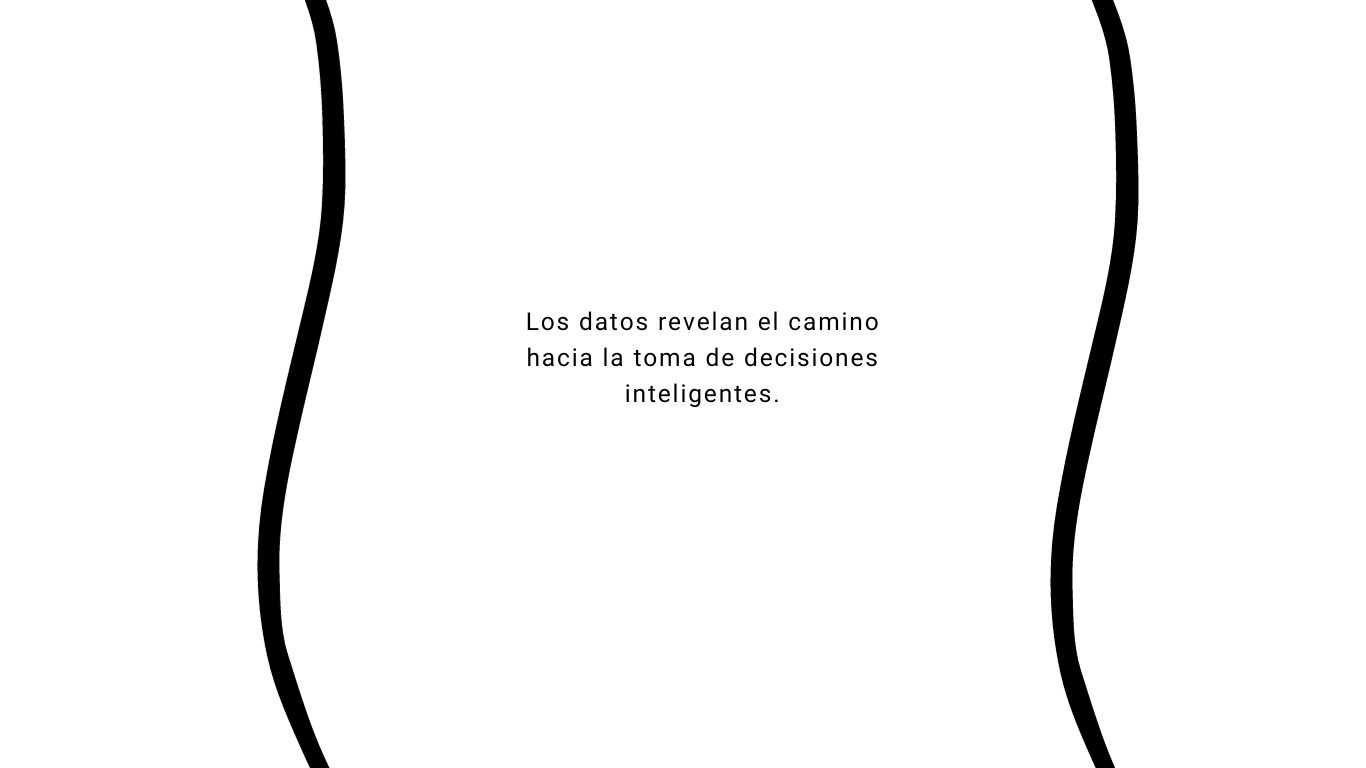
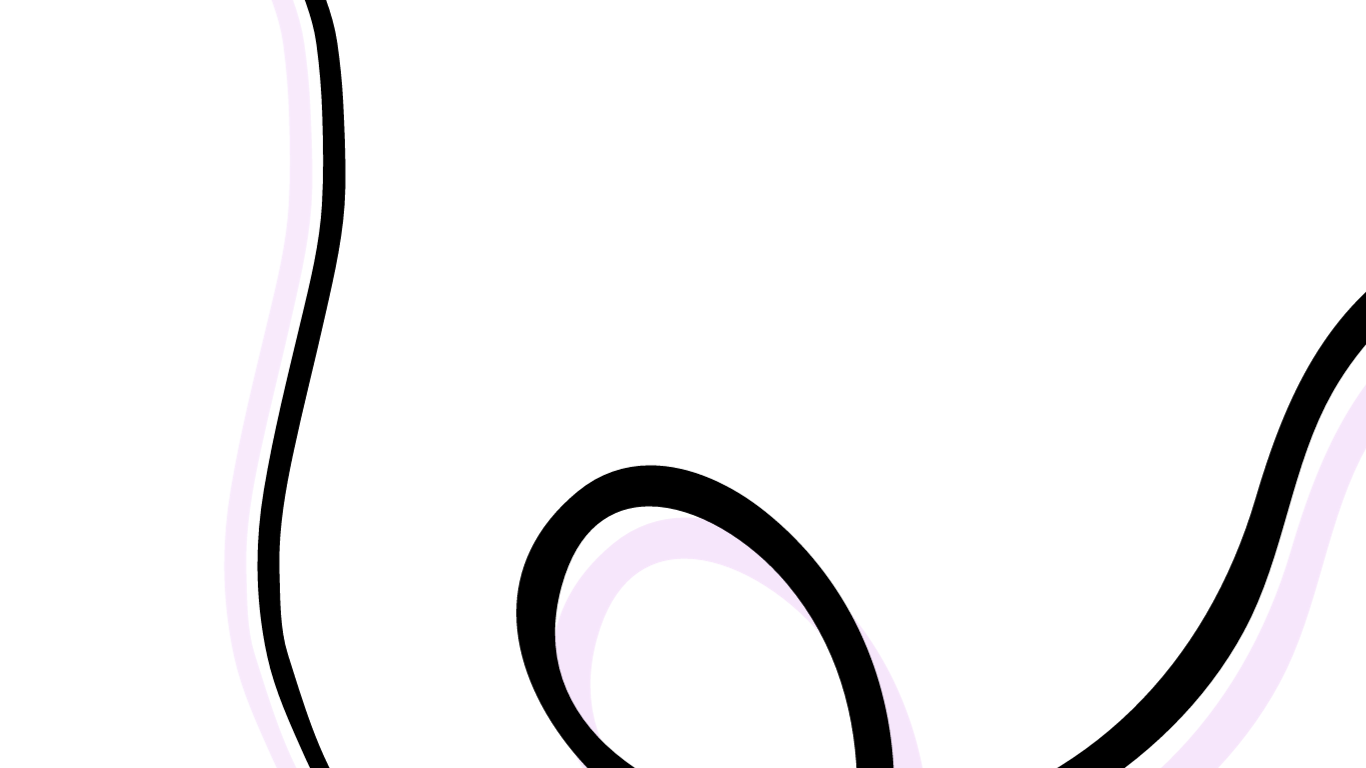
Mi quinto commit

Changed region(s): [[0.7687, 0.0, 1.0, 1.0], [0.369, 0.5938, 0.6764, 1.0], [0.369, 0.4062, 0.6457, 0.5312]]

diff --git a/views/estudianteseeuu.html b/views/estudianteseeuu.html
@@ -11,45 +11,48 @@
    <style>  
    </style>
   </head>  
-  <body>
-    <div class="navbar-fixed">
-    <nav>
-      <div class="nav-wrapper">
-        <a href="../index.html" class="brand-logo">Ariana Spenza</a>
-        <a href="#" data-target="mobile-demo" class="sidenav-trigger"><i class="material-icons">menu</i></a>
-        <ul class="right hide-on-med-and-down">
-                   <li><a class="item_nav" href="../index.html">Inicio</a></li>                 
-      </div>
-    </nav>  
-   </div>
-    <ul class="sidenav" id="mobile-demo">
-                   <li><a class="item_nav white-text sidenav-close" href="../index.html">Inicio</a></li>                    
-    </ul>   
+  <body>   
+      <div class="navbar-fixed">
+        <nav>
+          <div class="nav-wrapper">                 
+            <ul class="left">                       
+                       <li><a href="/index.html" class="brand-logo left">Inicio</a> </li> 
+            </ul>
+          </div>
+        </nav>  
+       </div>    
     <main>              
-  <div class="row container">
-    <h3>Análisis sobre la Salud Mental de estudiantes universitarios.</h3>
-    <i class="large material-icons" id="rocket">
-      rocket_launch
-    </i>
-    <div class="col s12 m12 l12  purple lighten-4 hoverable">
-      <blockquote>
-        <b>Herramientas: </b>SQL, DB Browser, Python, Jupyter Notebook, Jupyter Lab.
-      </blockquote>
-    </div>
-    <p>En este proyecto, me sumergí en el análisis de un conjunto de datos descargado desde Kaggle que proporcionaba información detallada sobre estudiantes universitarios en los Estados Unidos.</p>
-    <p> La tabla comprendía datos sobre la presencia de ansiedad, depresión y ataques de pánico en los estudiantes, así como información sobre si recibían tratamiento especializado. Además, incluía detalles sobre el nivel del curso, la especialización, la edad y el género de los estudiantes.</p>
+      <div class="row container">
+        <h3>Análisis sobre la Salud Mental de estudiantes universitarios.</h3>
+        <i class="large material-icons" id="rocket">
+          rocket_launch
+        </i>
+        <div class="col s12 m12 l12 purple lighten-4 hoverable">
+          <blockquote>
+            <b>Herramientas: </b> SQL, DB browser, Python, Jupyter Notebook, Jupyter Lab.
+          </blockquote>
+        </div>          
     <div class="col s12 m12 l12">      
+      <p>En este proyecto, me sumergí en el análisis de un conjunto de datos descargado desde 
+        Kaggle que proporcionaba información detallada sobre estudiantes universitarios en los Estados Unidos.</p>
+          <p> La tabla comprendía datos sobre la presencia de ansiedad, depresión y ataques de pánico en 
+            los estudiantes, así como información sobre si recibían tratamiento especializado. Además, incluía detalles 
+            sobre el nivel del curso, la especialización, la edad y el género de los estudiantes.</p>
       <ol>
-      <li>Comencé por descargar el archivo CSV desde Kaggle, que contenía toda la información necesaria. Luego, utilicé Python en un entorno Jupyter Notebook para abrir el archivo CSV y cargar los datos en una base de datos SQLite. Esto me permitió realizar consultas SQL en los datos para obtener información relevante.
-      </li><br><img src="/assets/img/portafolio/estudiantes_eeuu/jupyternot.png" class="responsive-img materialboxed"><br><img src="/assets/img/portafolio/estudiantes_eeuu/tabla_sql.png" class="responsive-img materialboxed"> <br>
-      <li>Análisis con SQL: calculé la cantidad de estudiantes que tienen depresión, ansiedad y ataques de pánico.</li><br><img src="/assets/img/portafolio/estudiantes_eeuu/3.png" class="responsive-img materialboxed"><br>
+      <li>Comencé por descargar el archivo CSV desde Kaggle, que contenía toda la información necesaria. 
+        Luego, utilicé Python en un entorno Jupyter Notebook para abrir el archivo CSV y cargar los datos en una 
+        base de datos SQLite. Esto me permitió realizar consultas SQL en los datos para obtener información relevante.</li>
+      <br><img src="/assets/img/portafolio/estudiantes_eeuu/jupyternot.png" class="responsive-img materialboxed"><br>
+      <img src="/assets/img/portafolio/estudiantes_eeuu/tabla_sql.png" class="responsive-img materialboxed"> <br>
+      <li>Análisis con SQL: calculé la cantidad de estudiantes que tienen depresión, ansiedad y ataques de pánico.</li>
+      <br><img src="/assets/img/portafolio/estudiantes_eeuu/3.png" class="responsive-img materialboxed"><br>
       <li>Análisis con SQL: el promedio de edad por género.</li><br><img src="/assets/img/portafolio/estudiantes_eeuu/5.png" class="responsive-img materialboxed"><br>
       <li>Análisis con SQL: calculé el promedio de CGPA (Grade Point Average) por género.</li><br><img src="/assets/img/portafolio/estudiantes_eeuu/6.png" class="responsive-img materialboxed"><br>
       <li>Análisis con SQL: la cantidad de estudiantes con un tratamiento especial, agrupado por año de estudio.</li><br><img src=/assets/img/portafolio/estudiantes_eeuu/7.png class="responsive-img materialboxed"><br>
       <li>Análisis con SQL: edad promedio de estudiantes con tratamientos especializados por género.</li><br><img src=/assets/img/portafolio/estudiantes_eeuu/8.png class="responsive-img materialboxed">  
     </ol>  
-  <p>Luego de realizar las consultas SQL y obtener los resultados, trasladé los datos a un entorno Jupyter Lab.</p><br><img src="/assets/img/portafolio/estudiantes_eeuu/lab1.png" class="responsive-img materialboxed"><br>
-  <ol>
+        <p>Luego de realizar las consultas SQL y obtener los resultados, trasladé los datos a un entorno Jupyter Lab.</p><br><img src="/assets/img/portafolio/estudiantes_eeuu/lab1.png" class="responsive-img materialboxed"><br>
+    <ol>
     <li>Utilicé bibliotecas de visualización de datos como Matplotlib para crear gráficos informativos y representativos. En primer lugar genere un gráfico para visualizar la cantidad de alumnos que tienen depresión.</li><br><img src="/assets/img/portafolio/estudiantes_eeuu/gf1.png" class="responsive-img materialboxed"><img src="/assets/img/portafolio/estudiantes_eeuu/gf2.png" class="responsive-img materialboxed">
     <br><li>Y luego, generé gráficos de barras para mostrar la cantidad de estudiantes con ansiedad, depresión y ataques de pánico.</li><br><img src="/assets/img/portafolio/estudiantes_eeuu/gf3.png" class="responsive-img materialboxed"><br><img src="/assets/img/portafolio/estudiantes_eeuu/gf5.png" class="responsive-img materialboxed"><br><img src="/assets/img/portafolio/estudiantes_eeuu/gf6.png" class="responsive-img materialboxed">
   </ol>
@@ -61,6 +64,7 @@
     <a href="#" id="#slice_id" class="btn-floating btn-large pink pulse">
     <i class="material-icons">keyboard_arrow_up</i></a>
   </div>
+</main>
     <footer class="page-footer">
     <div class="container  section scrollspy" id="contacto">
       <div class="row">
@@ -89,7 +93,7 @@
        
     <script src="../js/materialize.min.js"></script>
     <script src="../js/proyectos.js"></script>  
-  </main>
+  
   </body>  
   
   </html>

diff --git a/views/marketing.html b/views/marketing.html
@@ -13,25 +13,21 @@
   </head>  
   <body>
     <div class="navbar-fixed">
-    <nav>
-      <div class="nav-wrapper">
-        <a href="../index.html" class="brand-logo">Ariana Spenza</a>
-        <a href="#" data-target="mobile-demo" class="sidenav-trigger"><i class="material-icons">menu</i></a>
-        <ul class="right hide-on-med-and-down">
-                   <li><a class="item_nav" href="../index.html">Inicio</a></li>                 
-      </div>
-    </nav>  
-   </div>
-    <ul class="sidenav" id="mobile-demo">
-                   <li><a class="item_nav white-text sidenav-close" href="../index.html">Inicio</a></li>                    
-    </ul>   
+      <nav>
+        <div class="nav-wrapper">                 
+          <ul class="left">                       
+                     <li><a href="/index.html" class="brand-logo left">Inicio</a> </li> 
+          </ul>
+        </div>
+      </nav>  
+     </div>    
     <main>              
   <div class="row container">
     <h3>Guía de 10 pasos para evaluar el impacto de una campaña publicitaria.</h3>
     <i class="large material-icons" id="rocket">
       rocket_launch
     </i>
-    <div class="col s12 m12 l12  purple lighten-4">
+    <div class="col s12 m12 l12 purple lighten-4 hoverable">
       <blockquote>
         <b>Herramientas: </b>Meta Business Suite, Excel, Power Query y Power BI.
       </blockquote>
@@ -50,20 +46,21 @@
       <li>Establecimiento de relaciones: Establecí relaciones entre las tablas del informe y las tablas de fechas en el modelo de datos para permitir un análisis más completo.</li><br>
       <li>Visualización de datos: Finalmente, utilicé Power BI para crear gráficos y visualizaciones que revelaron el impacto de la campaña publicitaria de manera efectiva.</li><br><img src="/assets/img/portafolio/campaña/marketing_powerbi.png" class="responsive-img materialboxed">
     </ol>
-    <ul>
-      <li>Como se puede observar en el gráfico presentado, nuestra herramienta de análisis de datos permite filtrar la información por fecha, lo que brinda una visión clara de la efectividad de la campaña publicitaria a lo largo del tiempo.</li> 
-      <li>Destaca que la mayoría de las impresiones provienen del grupo demográfico de personas entre 25 y 34 años.</li>
-      <li>La campaña tuvo una duración relativamente corta, de tan solo 3 días, durante los cuales logramos obtener un total de 88 clics en el enlace de la página que deseábamos promocionar. Esto demuestra un interés genuino por parte de los usuarios.</li>  <br>
-      <li>Uno de los indicadores clave que evaluamos es la tasa de conversión, que representa la proporción de usuarios alcanzados por la publicidad que finalmente realizaron clic en el enlace. Este dato es fundamental para medir la eficacia de la campaña y, en este caso, muestra una tasa positiva.</li><br>
-      <li>Además, el gráfico nos proporciona la suma de clics en el enlace desglosados por género, donde destaca que la mayoría de los clics provienen de hombres, representando un 56.82% del total.</li>  
-      <li>Estos datos nos ofrecen una visión integral de la campaña y nos ayudan a tomar decisiones informadas para futuras estrategias de publicidad.</li>
-    </ul>
+    
+      <p>Como se puede observar en el gráfico presentado, nuestra herramienta de análisis de datos permite filtrar la información por fecha, lo que brinda una visión clara de la efectividad de la campaña publicitaria a lo largo del tiempo.</p> 
+      <p>Destaca que la mayoría de las impresiones provienen del grupo demográfico de personas entre 25 y 34 años.</p>
+      <p>La campaña tuvo una duración relativamente corta, de tan solo 3 días, durante los cuales logramos obtener un total de 88 clics en el enlace de la página que deseábamos promocionar. Esto demuestra un interés genuino por parte de los usuarios.</p> 
+      <p>Uno de los indicadores clave que evaluamos es la tasa de conversión, que representa la proporción de usuarios alcanzados por la publicidad que finalmente realizaron clic en el enlace. Este dato es fundamental para medir la eficacia de la campaña y, en este caso, muestra una tasa positiva.</p>
+      <p>Además, el gráfico nos proporciona la suma de clics en el enlace desglosados por género, donde destaca que la mayoría de los clics provienen de hombres, representando un 56.82% del total.</p>  
+      <p>Estos datos nos ofrecen una visión integral de la campaña y nos ayudan a tomar decisiones informadas para futuras estrategias de publicidad.</p>
+    
     </div>
   </div>
   <div class="fixed-action-btn">
     <a href="#" id="#slice_id" class="btn-floating btn-large pink pulse">
     <i class="material-icons">keyboard_arrow_up</i></a>
   </div>
+</main>
     <footer class="page-footer">
     <div class="container  section scrollspy" id="contacto">
       <div class="row">
@@ -92,7 +89,7 @@
        
     <script src="../js/materialize.min.js"></script>
     <script src="../js/proyectos.js"></script>  
-  </main>
+ 
   </body>  
   
   </html>

diff --git a/index.html b/index.html
@@ -87,16 +87,15 @@
           </li>
     </ul>    
   </div> 
-  <div id="index-banner" class="parallax-container">
+  <div id="index-banner" class="parallax-container  valign-wrapper">
     <div class="section no-pad-bot">
-      <div class="container">
-        <br><br>        
-        <div class="row center">          
-        </div>        
-        <br><br>
+      <div class="container">                      
+        <div class="row"> 
+          <h4 class="header col s12 light black-text">Los datos revelan el camino hacia<br> la toma de decisiones inteligentes.</h4>         
+        </div>                
       </div>
     </div>
-    <div class="parallax"><img src="./assets/img/fondo2.png" alt="Unsplashed background img 1"></div>
+    <div class="parallax"><img src="./assets/img/compunueva3.png" alt="Unsplashed background img 1"></div>
   </div>
   <!--   sobre mi   -->
   <div class="container">
@@ -110,9 +109,8 @@
         <img src="./assets/img/foto_cv.jpeg" id="sobre_mimg"  class="responsive-img">
     </div>     
     <div class="col s12 m12 l8">
-      <p class="grey-text text-darken-3 lighten-3 "> ¡Hola! Soy Ariana 👋 Licenciada en Organización Industrial. 
-        Descubrí mi pasión en el análisis de datos y el marketing digital,  donde aprendí que la combinación de datos y creatividad puede impulsar el éxito en las estrategias digitales 📊.</p> 
-        <p>Me encanta enfrentar desafíos y transformar datos en soluciones relevantes. Además, soy una apasionada del aprendizaje constante. Estoy acá para compartir mi entusiasmo y contribuir a la toma de decisiones informadas.</p>
+      <p class="grey-text text-darken-3 lighten-3 "> ¡Hola! 👋 Soy Ariana, tengo 26 años y vivo en la ciudad de Bahía Blanca. Hace poco tiempo me gradué como Licenciada en Organización Industrial y actualmente estoy introduciéndome en el mundo del análisis de datos, donde he  descubierto que la combinación de datos y creatividad puede impulsar el éxito en las estrategias digitales 📊.</p>        
+        <p class="grey-text text-darken-3 lighten-3 ">Estoy acá para presentarte mis proyectos y mostrarte como tomar decisiones más informadas a través de los datos.</p>
         <text class="right" id="mi_mirm"><b>Ariana.</b></text>
     </div>                  
     </div>
@@ -138,28 +136,28 @@
     <div class="section">
       <h1 class="header center black-text text-lighten-1">Servicios</h1>
       <div class="row">
-        <div class="col s12 m12 l3 hoverable">
+        <div class="col s10 offset-s1 m6 offset-m3 l3 hoverable">
           <div class="icon-block">
             <h2 class="center black-text"><i class="large material-icons">computer</i></h2>
             <h5 class="center">Análisis de Datos</h5>
             <p class="light">Análisis de datos utilizando herramientas como Power Query, Excel, Access Y SQL.</p>
           </div>
         </div>
-        <div class="col s12 m12 l3 hoverable">
+        <div class="col s10 offset-s1 m6 offset-m3 l3 hoverable">
           <div class="icon-block">
             <h2 class="center black-text"><i class="large material-icons">dashboard</i></h2>
             <h5 class="center">Dashboards</h5>
             <p class="light">Visualizaciones de datos efectivas utilizando herramientas como Tableau, Looker y Power BI.</p>
           </div>
         </div>
-        <div class="col s12 m12 l3 hoverable">
+        <div class="col s10 offset-s1 m6 offset-m3 l3 hoverable">
           <div class="icon-block">
             <h2 class="center black-text"><i class="large material-icons">settings</i></h2>
             <h5 class="center">Business Intelligence</h5>
             <p class="light">Soluciones de Business Intelligence que permiten a las empresas tomar decisiones más informadas.</p>
           </div>
         </div>
-        <div class="col s12 m12 l3 hoverable">
+        <div class="col s10 offset-s1 m6 offset-m3 l3 hoverable">
           <div class="icon-block">
             <h2 class="center black-text"><i class="large material-icons">assessment</i></h2>
             <h5 class="center">Análisis de Redes Sociales y Estrategias</h5>

diff --git a/views/tableau.html b/views/tableau.html
@@ -13,18 +13,14 @@
   </head>  
   <body>
     <div class="navbar-fixed">
-    <nav>
-      <div class="nav-wrapper">
-        <a href="../index.html" class="brand-logo">Ariana Spenza</a>
-        <a href="#" data-target="mobile-demo" class="sidenav-trigger"><i class="material-icons">menu</i></a>
-        <ul class="right hide-on-med-and-down">
-                   <li><a class="item_nav" href="../index.html">Inicio</a></li>                 
-      </div>
-    </nav>  
-   </div>
-    <ul class="sidenav" id="mobile-demo">
-                   <li><a class="item_nav white-text sidenav-close" href="../index.html">Inicio</a></li>                    
-    </ul>   
+      <nav>
+        <div class="nav-wrapper">                 
+          <ul class="left">                       
+                     <li><a href="/index.html" class="brand-logo left">Inicio</a> </li> 
+          </ul>
+        </div>
+      </nav>  
+     </div>    
     <main>              
   <div class="row container">
     <h3>Optimización del rendimiento de un restaurante: análisis y estrategias con Tableau.</h3>

diff --git a/views/dashboard.html b/views/dashboard.html
@@ -13,18 +13,14 @@
   </head>  
   <body>
     <div class="navbar-fixed">
-    <nav>
-      <div class="nav-wrapper">
-        <a href="/index.html" class="brand-logo">Ariana Spenza</a>
-        <a href="#" data-target="mobile-demo" class="sidenav-trigger"><i class="material-icons">menu</i></a>
-        <ul class="right hide-on-med-and-down">
-                   <li><a class="item_nav" href="../index.html">Inicio</a></li>                 
-      </div>
-    </nav>  
-   </div>
-    <ul class="sidenav" id="mobile-demo">
-                   <li><a class="item_nav white-text sidenav-close" href="../index.html">Inicio</a></li>                    
-    </ul>   
+      <nav>
+        <div class="nav-wrapper">                 
+          <ul class="left">                       
+                     <li><a href="/index.html" class="brand-logo left">Inicio</a> </li> 
+          </ul>
+        </div>
+      </nav>  
+     </div>     
     <main>               
       <div class="row container">
         <h3>Dashboard de ventas de videojuegos: Potenciando decisiones con Power BI.</h3>

diff --git a/views/businessi.html b/views/businessi.html
@@ -13,18 +13,14 @@
   </head>  
   <body>
     <div class="navbar-fixed">
-    <nav>
-      <div class="nav-wrapper">
-        <a href="/index.html" class="brand-logo">Ariana Spenza</a>
-        <a href="#" data-target="mobile-demo" class="sidenav-trigger"><i class="material-icons">menu</i></a>
-        <ul class="right hide-on-med-and-down">
-                   <li><a class="item_nav" href="../index.html">Inicio</a></li>                 
-      </div>
-    </nav>  
-   </div>
-    <ul class="sidenav" id="mobile-demo">
-                   <li><a class="item_nav white-text sidenav-close" href="../index.html">Inicio</a></li>                    
-    </ul>   
+      <nav>
+        <div class="nav-wrapper">                 
+          <ul class="left">                       
+                     <li><a href="/index.html" class="brand-logo left">Inicio</a> </li> 
+          </ul>
+        </div>
+      </nav>  
+   </div>      
     <main>               
       <div class="row container">
         <h3>Analizando el comportamiento del cliente y las ventas con Power BI.</h3>

diff --git a/views/looker.html b/views/looker.html
@@ -13,18 +13,14 @@
   </head>  
   <body>
     <div class="navbar-fixed">
-    <nav>
-      <div class="nav-wrapper">
-        <a href="/index.html" class="brand-logo">Ariana Spenza</a>
-        <a href="#" data-target="mobile-demo" class="sidenav-trigger"><i class="material-icons">menu</i></a>
-        <ul class="right hide-on-med-and-down">
-                   <li><a class="item_nav" href="../index.html">Inicio</a></li>                 
-      </div>
-    </nav>  
-   </div>
-    <ul class="sidenav" id="mobile-demo">
-                   <li><a class="item_nav white-text sidenav-close" href="../index.html">Inicio</a></li>                    
-    </ul>   
+      <nav>
+        <div class="nav-wrapper">                 
+          <ul class="left">                       
+                     <li><a href="/index.html" class="brand-logo left">Inicio</a> </li> 
+          </ul>
+        </div>
+      </nav>  
+     </div>    
     <main>               
       <div class="row container">
         <h3>Explorando el rendimiento de ventas con Looker Studio.</h3>

diff --git a/css/index.css b/css/index.css
@@ -6,9 +6,9 @@ body {
     min-height: 100vh;
     flex-direction: column;
     background-image: url('/assets/img/39.png');
-    background-size: contain;
-    background-blend-mode:lighten;    
-    background-color: rgb(238, 221, 243);
+    background-size: contain; 
+    background-blend-mode: darken;      
+    background-color: rgb(243, 227, 248);
     background-repeat: repeat;
   }
 
@@ -60,7 +60,7 @@ footer{
 }
 
 .card:hover {
-  background-color: #e3c1f3; /* Cambia el color de fondo al hacer hover */
+  background-color: #eed7f8; /* Cambia el color de fondo al hacer hover */
   color: #050505; /* Cambia el color del texto al hacer hover */
 
   

diff --git a/js/proyectos.js b/js/proyectos.js
@@ -1,8 +1,8 @@
 document.addEventListener('DOMContentLoaded', function() {
     
     //inicia menu side
-    var burger = document.querySelectorAll('.sidenav');
-    var inst_burger = M.Sidenav.init(burger, {});    
+    //var burger = document.querySelectorAll('.sidenav');
+    //var inst_burger = M.Sidenav.init(burger, {});    
 
     //inicia scrollpy
     var scroll_id = document.querySelectorAll('.scrollspy');

diff --git a/css/proyectos.css b/css/proyectos.css
@@ -6,8 +6,8 @@ body {
     min-height: 100vh;
     flex-direction: column;
     background-image: url('/assets/img/39.png');
-    background-size: contain;
-    background-blend-mode:lighten;    
+    background-size: contain; 
+    background-blend-mode: darken;       
     background-color: rgb(246, 223, 253);
     background-repeat: repeat;
   }

diff --git a/js/index.js b/js/index.js
@@ -8,7 +8,7 @@ document.addEventListener('DOMContentLoaded', function() {
     var slice_id = document.querySelectorAll('.slider');
     var inst_slice = M.Slider.init(slice_id,{
         height:600,
-        indicators: false
+        indicators: true
     });
     
     //inicia slide de inicio
